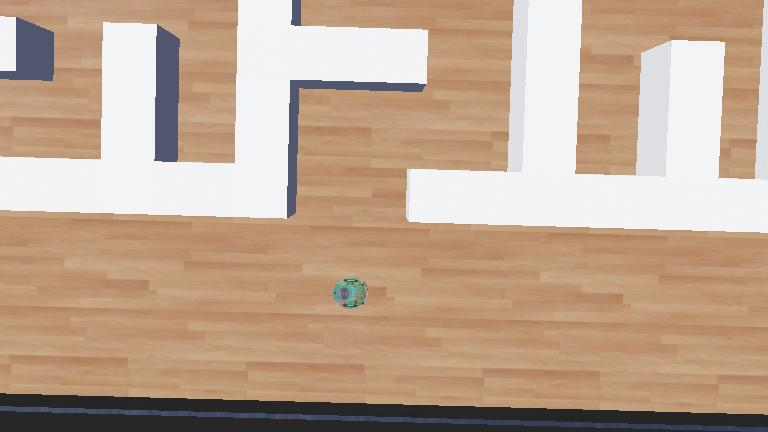
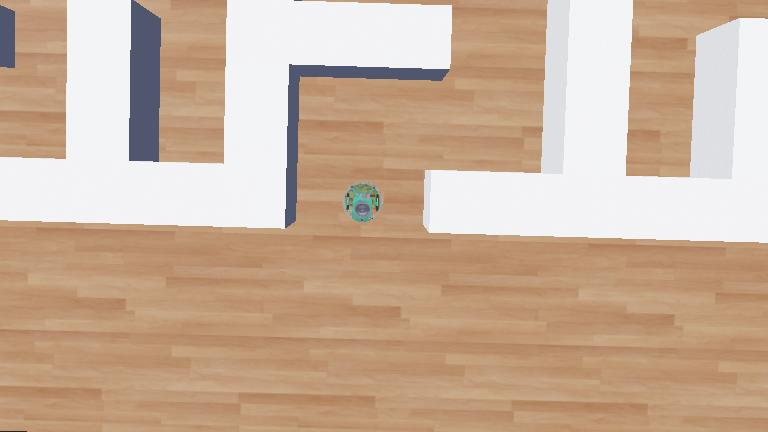
maze solving algorithm done

diff --git a/controllers/epuck_python/epuck_python.py b/controllers/epuck_python/epuck_python.py
@@ -1,26 +1,116 @@
-from controller import Robot
+from controller import Robot, DistanceSensor
 
+# Global Constants
 TIME_STEP = 64
+INFINITY = float('+inf')
 MAX_SPEED = 6.28
-DISTANCE_SENSORS_NUMBER = 8
+FRONT_SENSORS_NAMES = ["ps0", "ps7"]
+LEFT_SENSOR_IN = "ps5"
+LEFT_SENSOR_OUT = "ps6"
+WALL_DETECTED_VALUE = 300
+TURNING_WAIT_TIME = 1
 
-DISTANCE_SENSORS_NAMES = ["ps0", "ps1", "ps2", "ps3", "ps4", "ps5", "ps6", "ps7"]
-DISTANCE_SENSORS = []
+# Global Variables
+frontSensors = [None] * 2
+frontSensorsValues = [None] * 2
 
-# create the Robot instance.
+# These two sensors keep the robot closer to the left wall
+leftSensorIn = None  # Left-most sensor, used to instruct the robot to turn right
+leftSensorOut = None # Left-front sensor, used to instruct the robot to turn left
+
+# Global instances
 robot = Robot()
-
-# get the motor devices
 leftMotor = robot.getDevice('left wheel motor')
-rightMotor = robot.getDevice('right wheel motor')
-# set the target position of the motors
-leftMotor.setPosition(float('+inf'))
-rightMotor.setPosition(float('+inf'))
-leftMotor.setVelocity(MAX_SPEED)
-rightMotor.setVelocity(MAX_SPEED)
+rightMotor =  robot.getDevice('right wheel motor')
 
-# IMPORTANT this functions allows the robot to move
-while robot.step(TIME_STEP) != -1:
-   pass
+# INITIALIZE SENSORS
+def init_devices():
+   global leftSensorIn
+   global leftSensorOut
 
-# INITIALIZE SENSORS & LEDS
+   # Initialize both front sensors
+   for i in range(2):
+      frontSensors[i] = robot.getDevice(FRONT_SENSORS_NAMES[i])
+      DistanceSensor.enable(frontSensors[i], int(robot.getBasicTimeStep()))
+   
+   # Initialize left sensors
+   leftSensorIn = robot.getDevice(LEFT_SENSOR_IN)
+   leftSensorOut = robot.getDevice(LEFT_SENSOR_OUT)
+   DistanceSensor.enable(leftSensorIn, int(robot.getBasicTimeStep()))
+   DistanceSensor.enable(leftSensorOut, int(robot.getBasicTimeStep()))
+   
+   print("[INFO] Sensors activated")
+
+   leftMotor.setPosition(INFINITY)
+   rightMotor.setPosition(INFINITY)
+   leftMotor.setVelocity(0)
+   rightMotor.setVelocity(0)
+
+   step()
+
+def step():
+   if robot.step(int(robot.getBasicTimeStep())) == -1:
+      pass
+
+def get_front_sensors_values():
+   frontSensorsSum = 0
+   for i in range(2):
+      frontSensorsValues[i] = DistanceSensor.getValue(frontSensors[i])
+      frontSensorsSum += int(frontSensorsValues[i])
+   
+   return frontSensorsSum
+
+def get_left_sensor_in_value():
+   return int(DistanceSensor.getValue(leftSensorIn))
+
+def get_left_sensor_out_value():
+   return int(DistanceSensor.getValue(leftSensorOut))
+
+def turn_right():
+   leftMotor.setVelocity(MAX_SPEED)
+   rightMotor.setVelocity(-MAX_SPEED)
+   print("[INFO] Turning right")
+   wait(TURNING_WAIT_TIME)
+
+def get_closer_to_wall():
+   leftMotor.setVelocity(MAX_SPEED/3)
+   rightMotor.setVelocity(MAX_SPEED)
+
+def get_farther_from_wall():
+   leftMotor.setVelocity(MAX_SPEED)
+   rightMotor.setVelocity(MAX_SPEED/3)
+
+def stop():
+   leftMotor.setVelocity(0.0)
+   rightMotor.setVelocity(0.0)
+   print("[INFO] Stoping")
+   wait(0.2)
+
+def wait(sec):
+   startTime = robot.getTime()
+   while startTime + sec > robot.getTime():
+      step()
+
+
+
+################################################################################################
+#---------------------------------EVERYTHING STARTS HERE---------------------------------------#
+################################################################################################
+init_devices()
+
+while True:
+
+   # Check for walls in front
+   if get_front_sensors_values() > WALL_DETECTED_VALUE:
+      print("[INFO] Wall detected")
+      stop()
+      turn_right()
+   
+   # These to conditions make the robot follow the left wall
+   if get_left_sensor_in_value() < WALL_DETECTED_VALUE / 2:
+      get_closer_to_wall()
+   
+   if get_left_sensor_out_value() > WALL_DETECTED_VALUE / 2:
+      get_farther_from_wall()
+
+   step()
